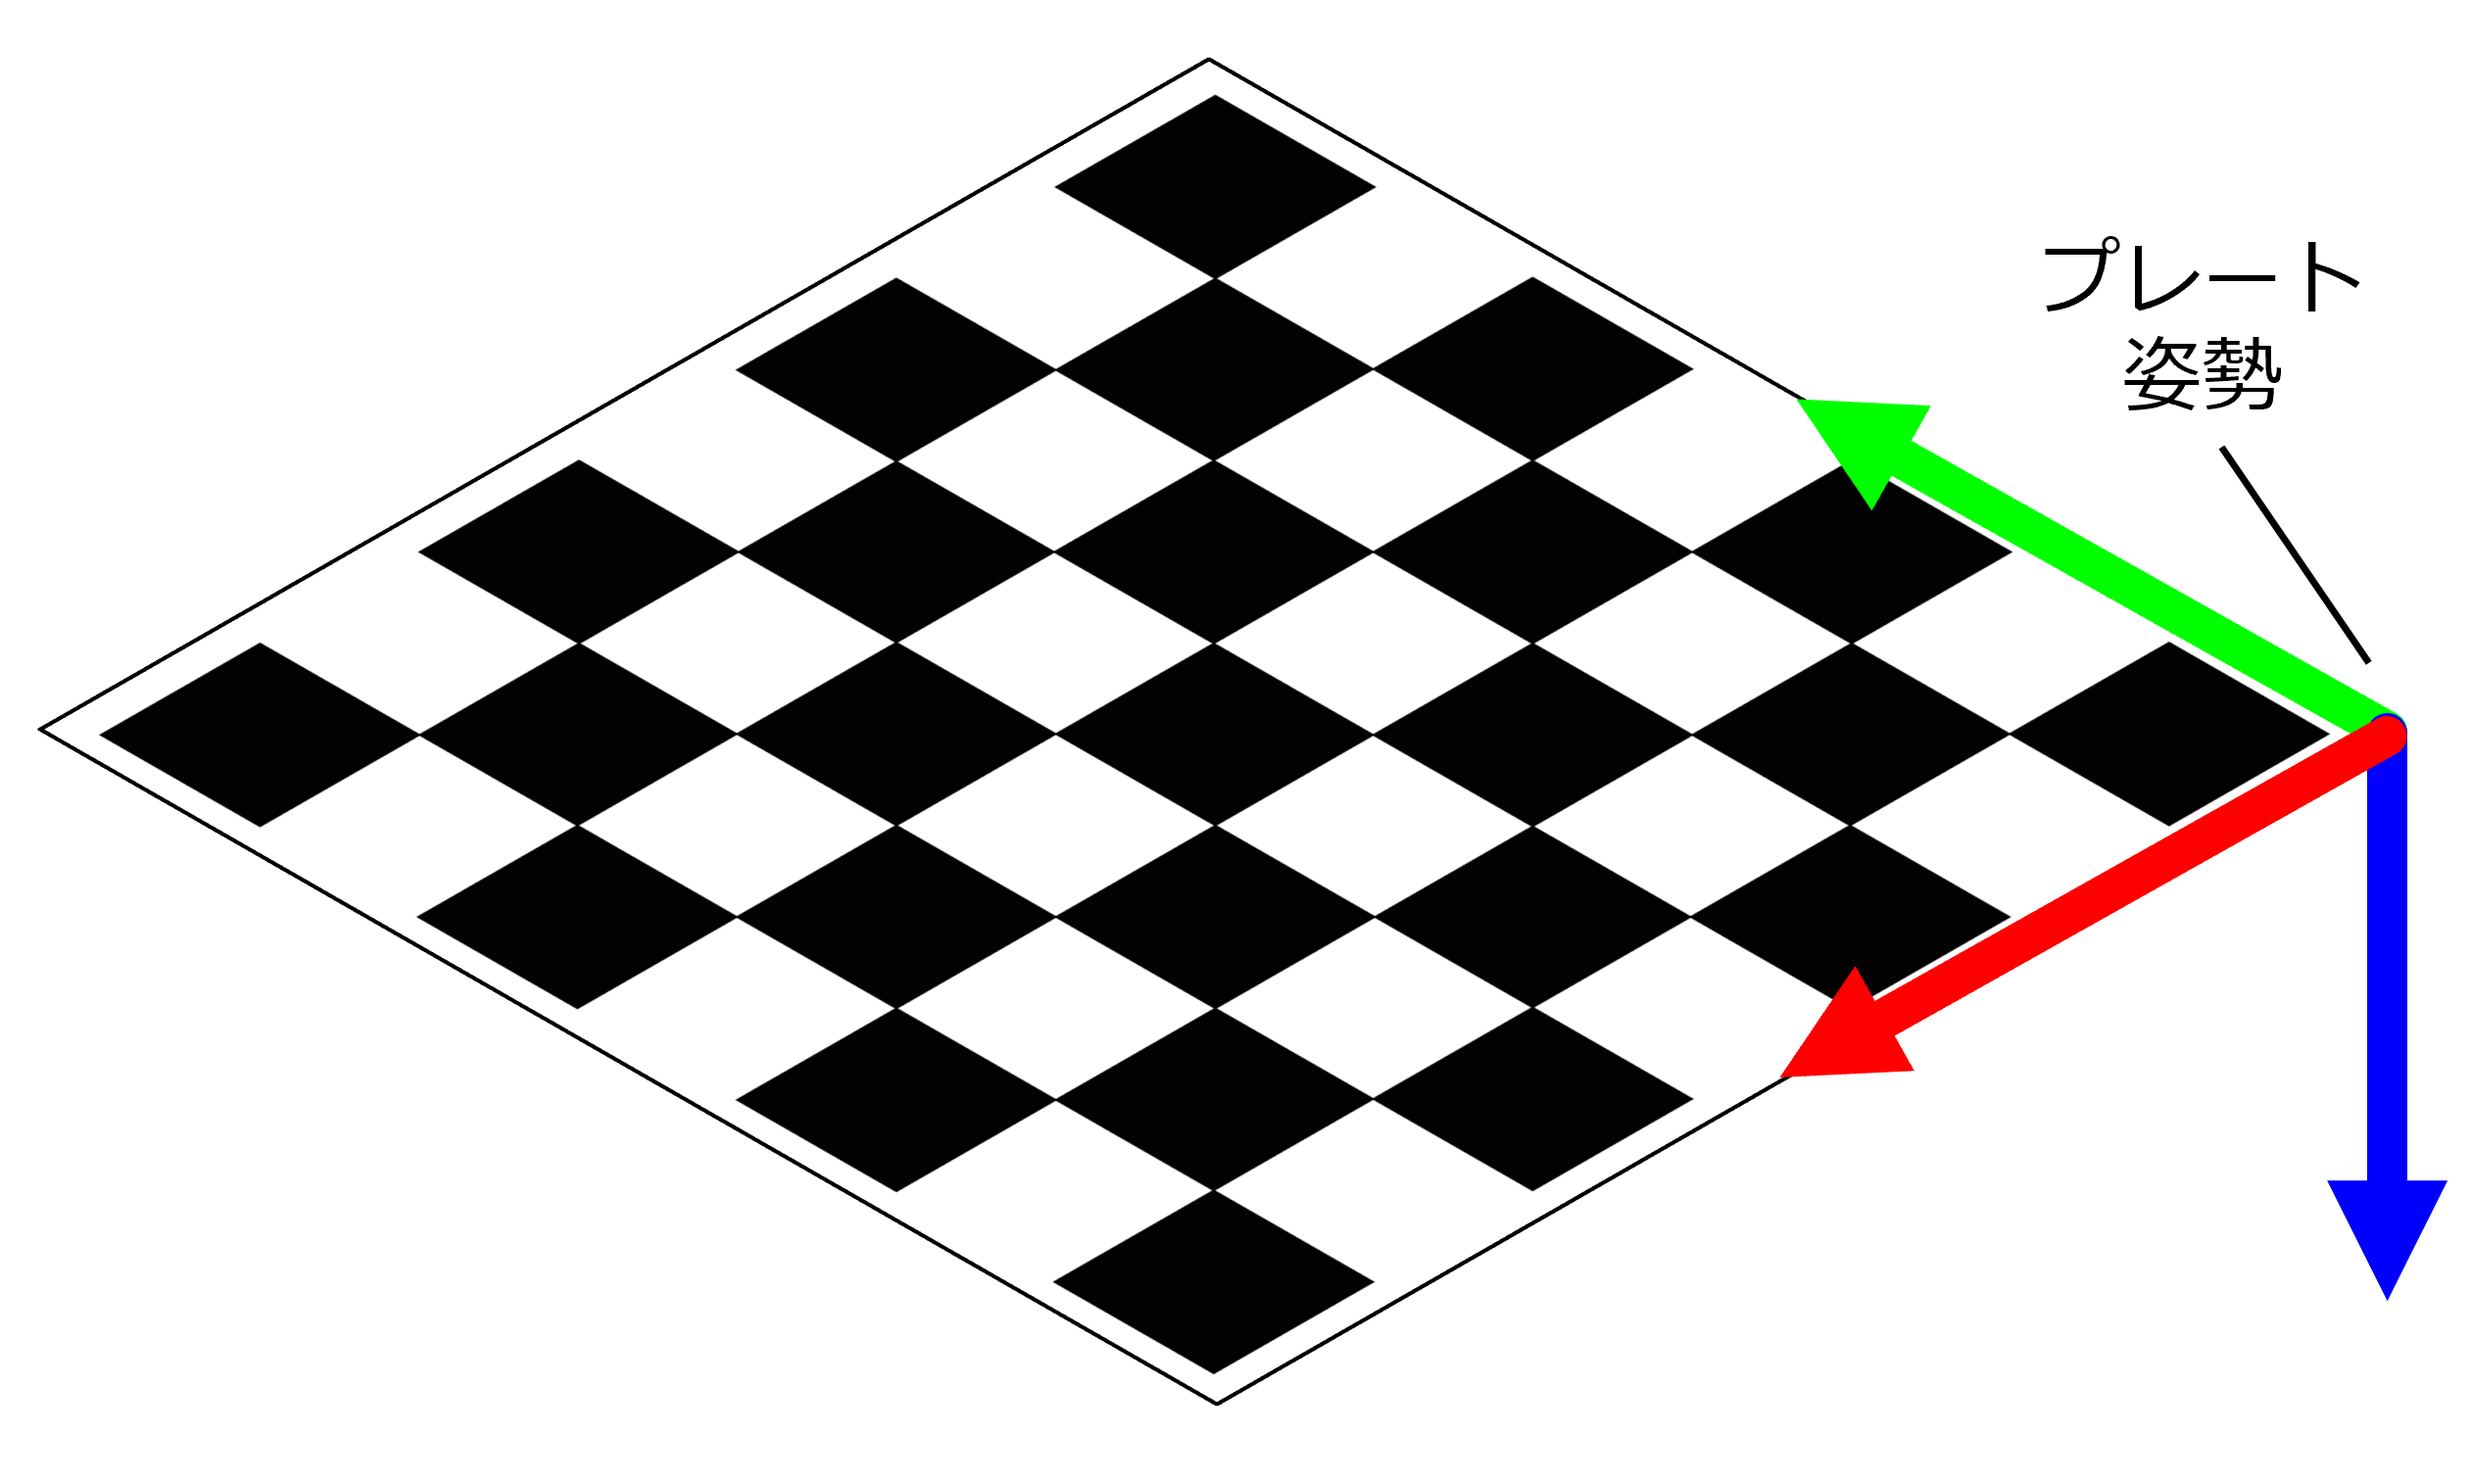
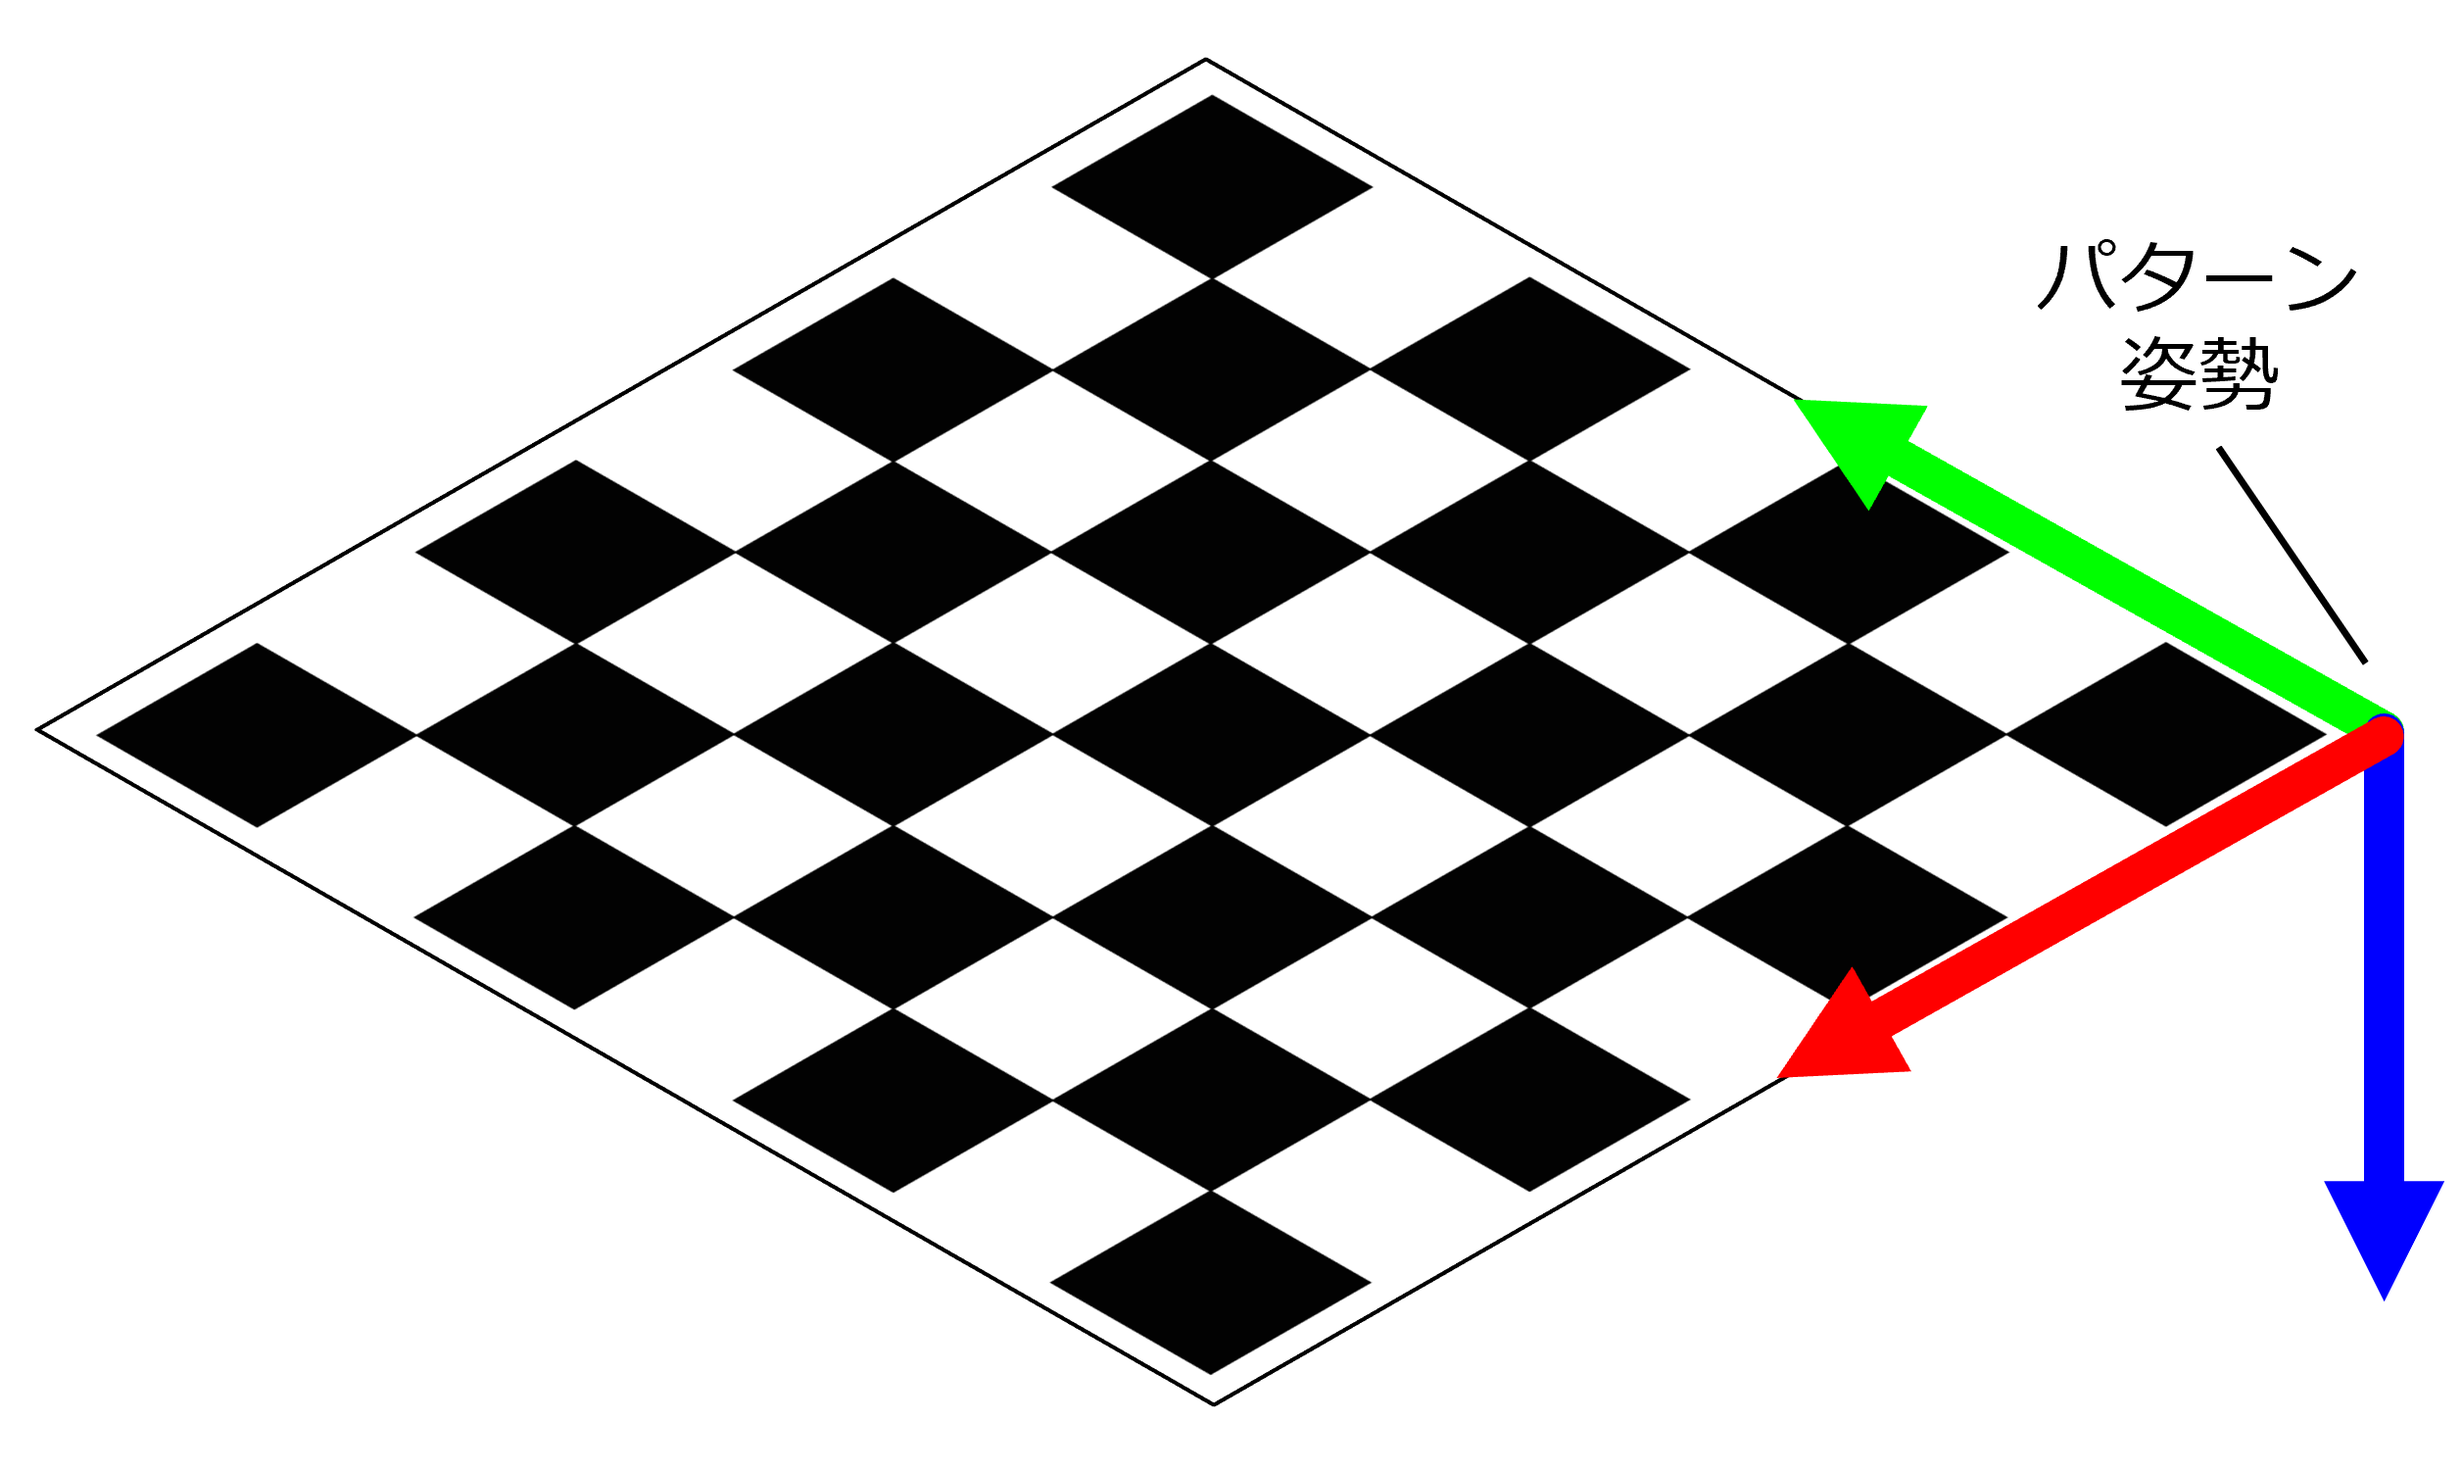
用語を統一

diff --git a/src/pages/robotics.md b/src/pages/robotics.md
@@ -44,7 +44,7 @@ icon: https://api.iconify.design/uil/robot.svg?color=%23730099&height=28
 ### 2Dカメラ
 
 - [CCTagマーカーを使ってみた](/robotics/vision/cctag)
-- [OpenCVで使用できるキャリブレーションマーカーの紹介](/robotics/vision/calibration-pattern)
+- [OpenCVで使用できるキャリブレーション用パターンの紹介](/robotics/vision/calibration-pattern)
 
 ### 3Dカメラ
 
